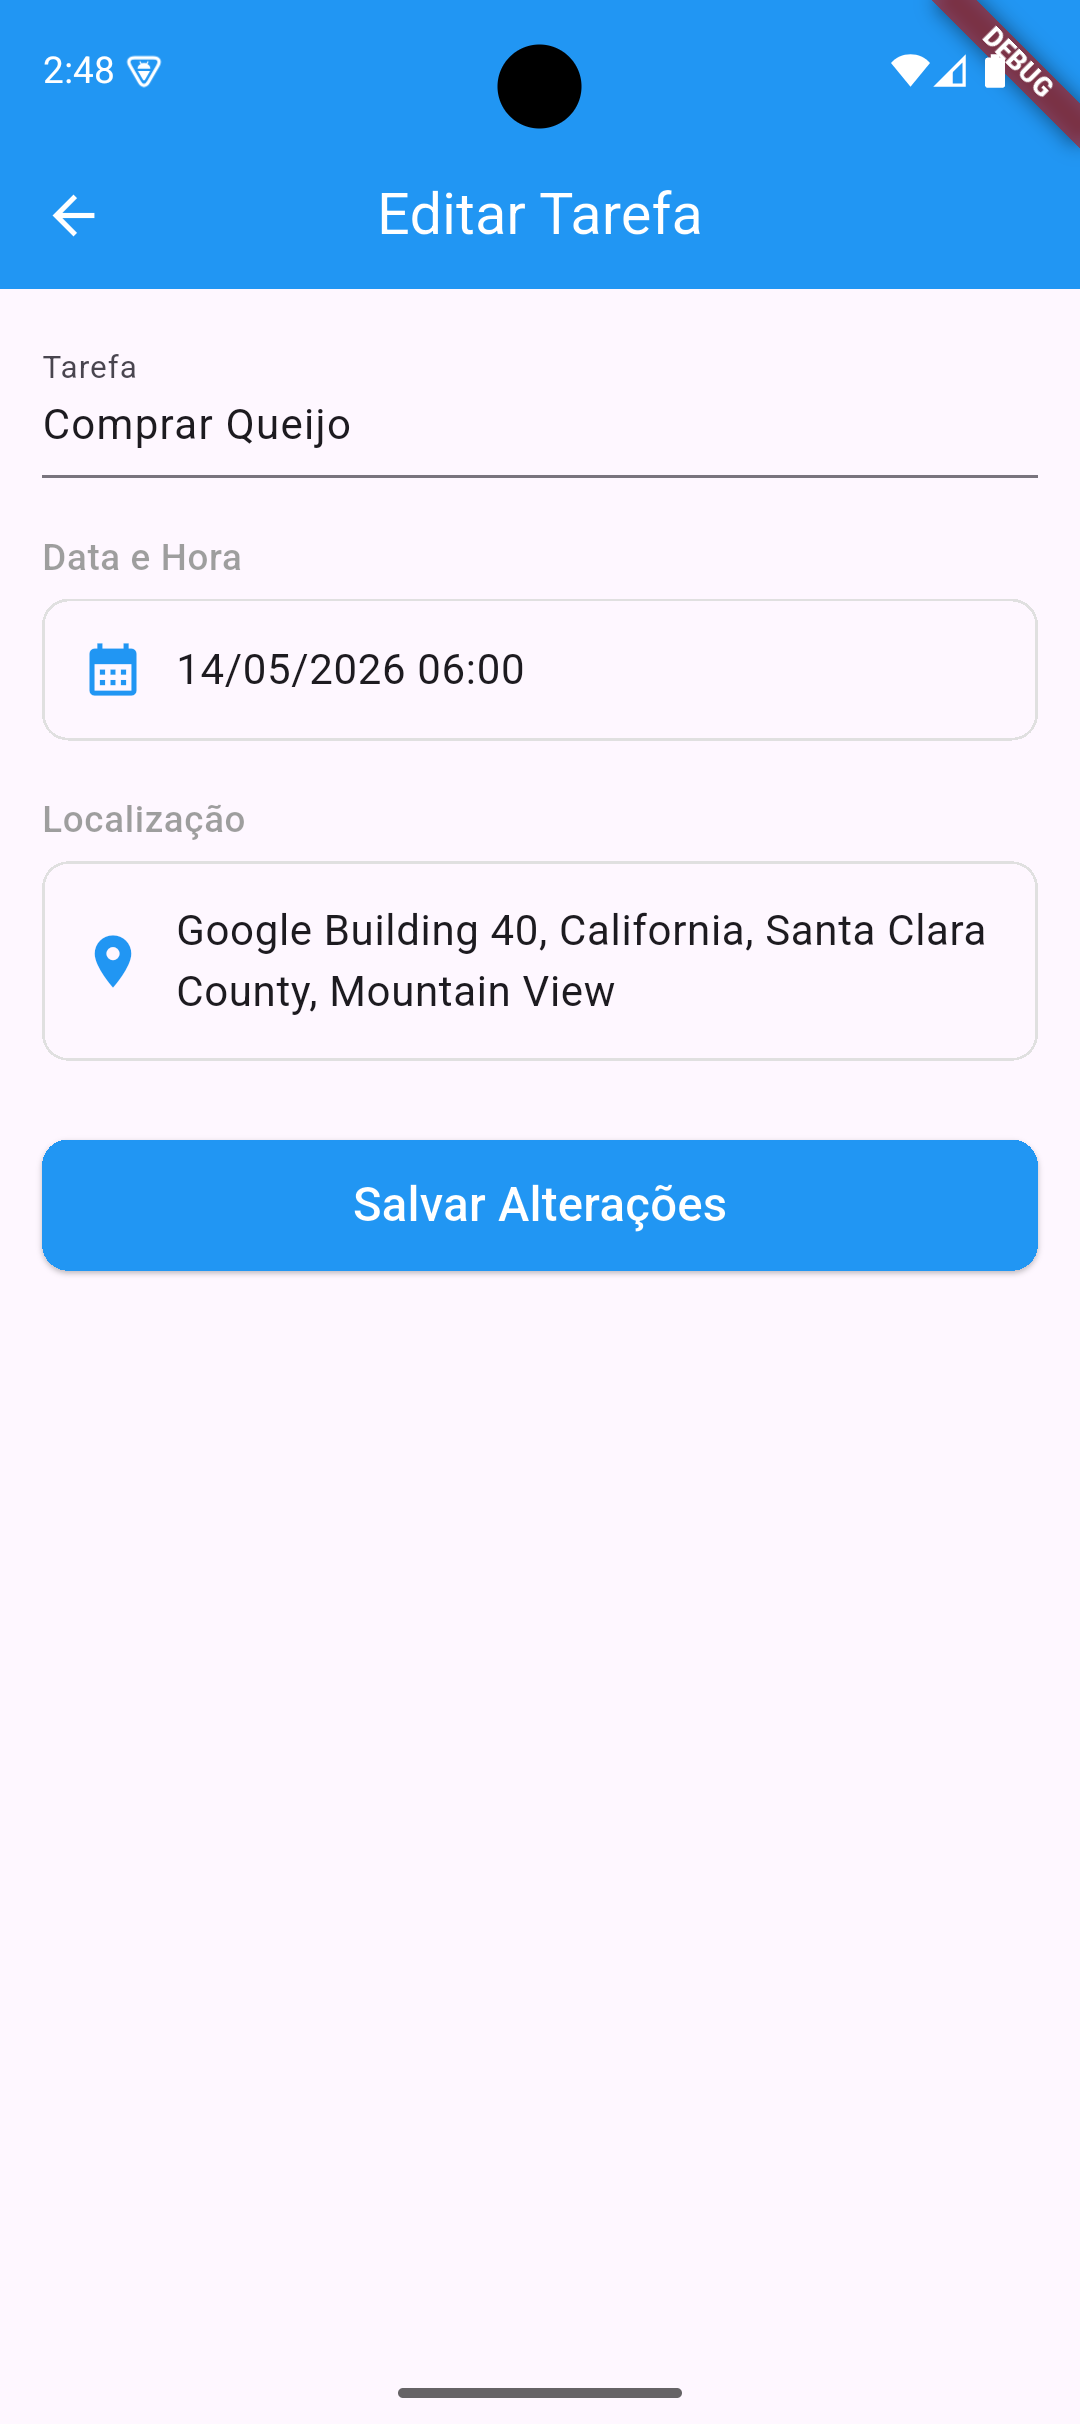
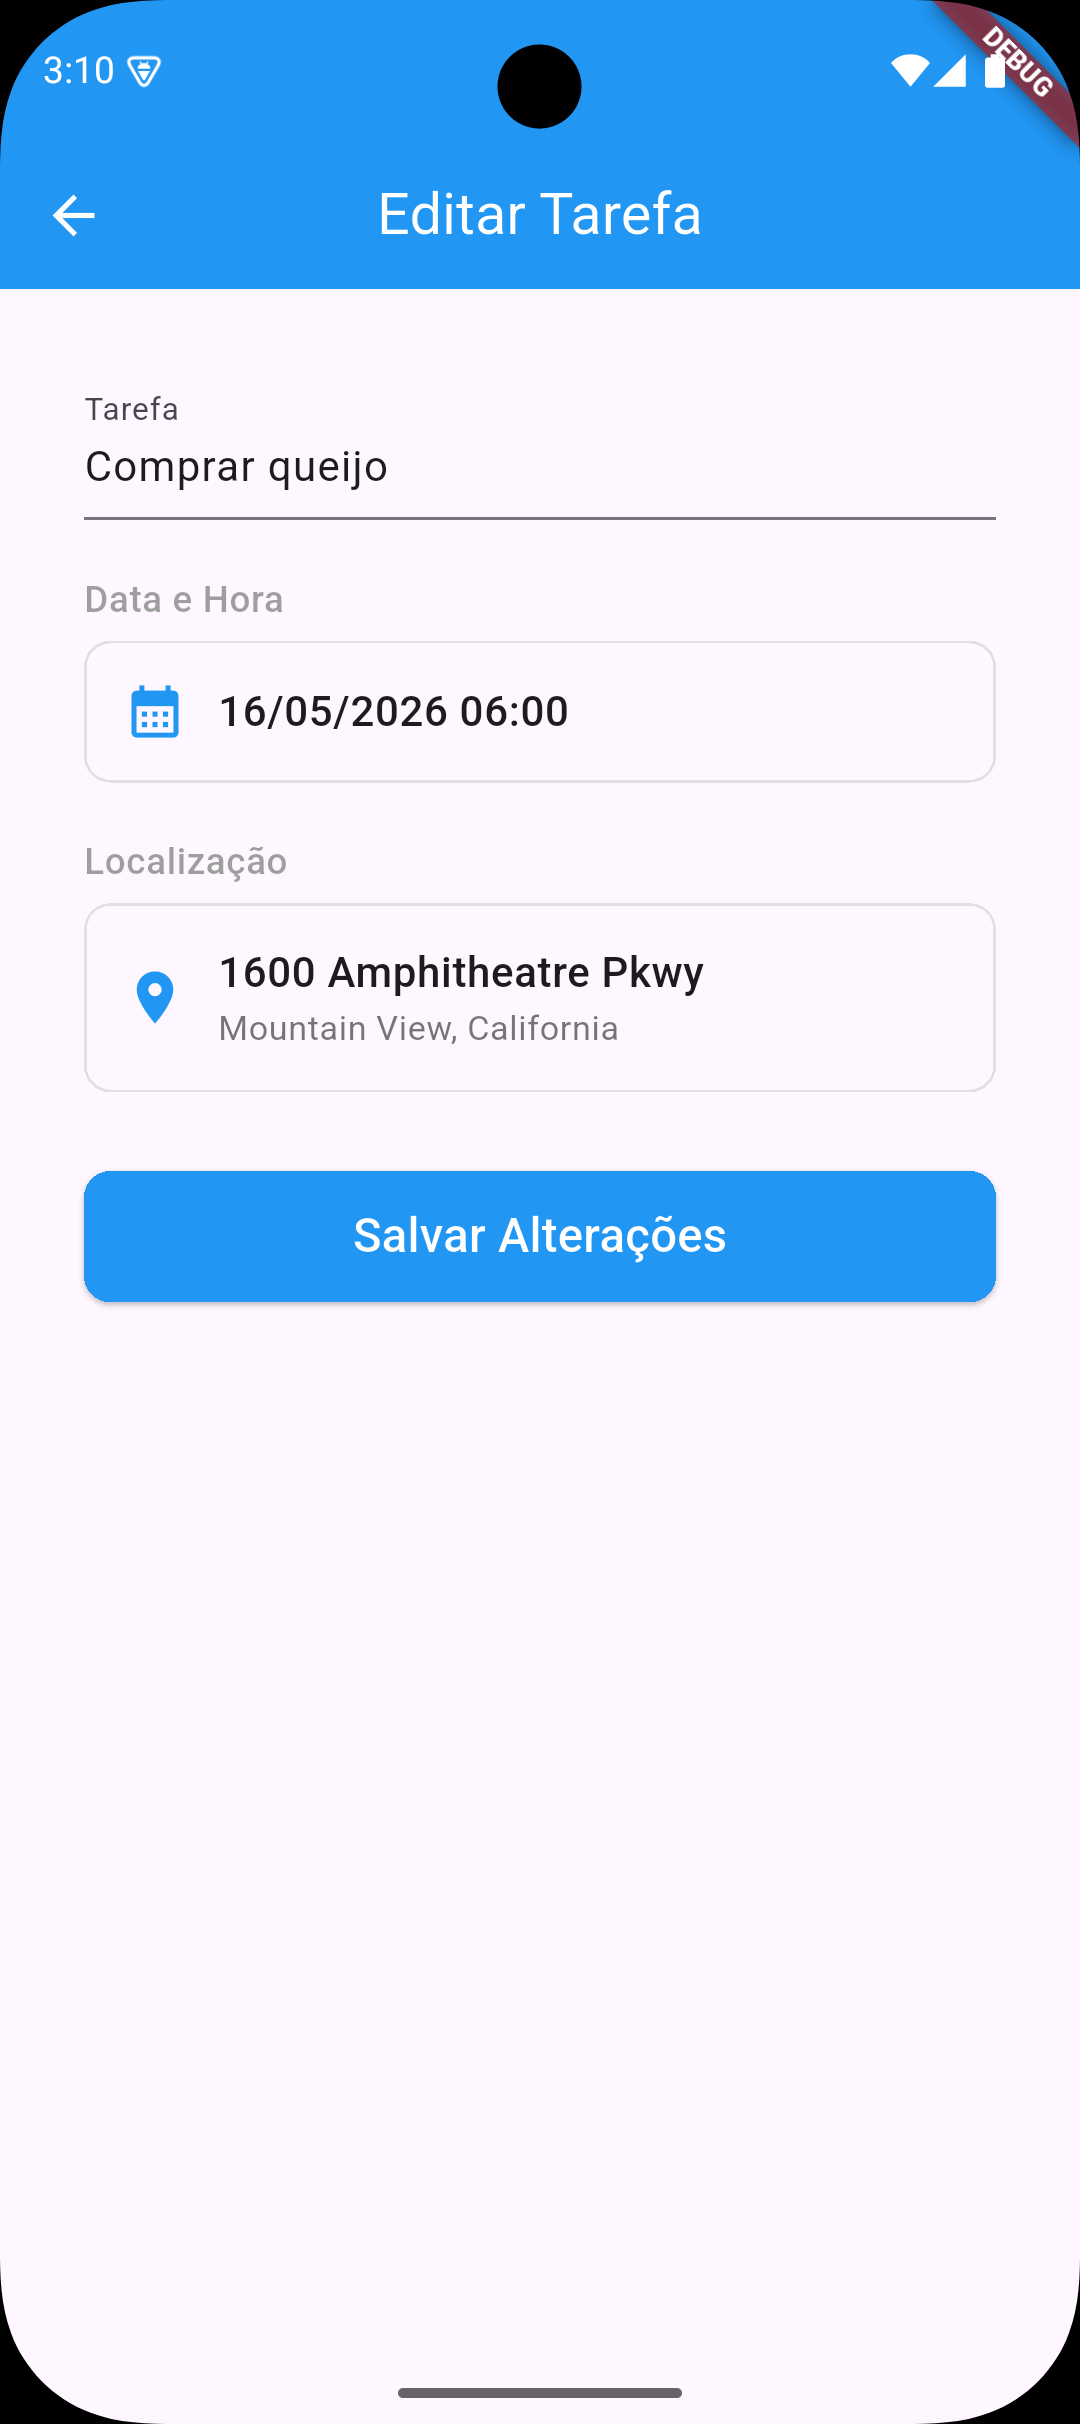
chore(readme): update images and descriptions for task management features

diff --git a/README.md b/README.md
@@ -118,9 +118,9 @@ Siga os passos abaixo para entender a navegação do app. Substitua as imagens d
    - Descrição: Ao pressionar o botão do canto inferior direito, seremos levados a tela de cadastro de uma nova tarefa. Podemos então preencher os campos e pressionar o botão "Salvar". Isso nos levará devolta a tela inicial, agora com a nova tarefa criada sendo listada.
 
    <p align="center">
-      <img src="assets/images/Tela_Cadastro_Tarefas.png" height="550" alt="Tela cadastro tarefas" />
-      <img src="assets/images/Tela_Cadastro_Tarefas_Preenchida.png" height="550" alt="Tela cadastro preenchida" />
-      <img src="assets/images/Tela_Listagem.png" height="550" alt="Tela listagem" />
+      <img src="assets/images/Tela_Cadastro_Tarefa.png" height="550" alt="Tela cadastro tarefas" />&nbsp;&nbsp;&nbsp;&nbsp;
+      <img src="assets/images/Tela_Cadastro_Tarefa_Preenchida.png" height="550" alt="Tela cadastro preenchida" />&nbsp;&nbsp;&nbsp;&nbsp;
+      <img src="assets/images/Tela_Listagem_Tarefa.png" height="550" alt="Tela listagem" />
    </p>
 
    ***
@@ -129,41 +129,43 @@ Siga os passos abaixo para entender a navegação do app. Substitua as imagens d
    - Descrição: Ao pressionar no card da tarefa, na tela de listagem de tarefas, somos levados a tela de detalhamento da tarefa, contendo informações completas da tarefa selecionada, incluindo localização e opções de edição e exclusão.
 
    <p align="center">
-      <img src="assets/images/Tela_Listagem.png" height="550" alt="Tela listagem" />
-      <img src="assets/images/Tela_Detalhes_Tarefa.png" height="550" alt="Tela detalhes tarefa" />
+      <img src="assets/images/Tela_Listagem_Tarefa.png" height="550" alt="Tela listagem" />&nbsp;&nbsp;&nbsp;&nbsp;
+      <img src="assets/images/Tela_Detalhamento_Tarefa.png" height="550" alt="Tela detalhes tarefa" />
    </p>
 
    ***
 
 4. **Edição de tarefa**
-   - Descrição: Ainda na tela de detalhamento da tarefa, pressione o botão "Editar". Seremos levados a tela de edição da tarefa selecionada. Alteramos os campos desejados e pressionamos o botão "Salvar alterações" e então somos levados a tela de listagem de tarefas, agora com a tarefa contendo as informações atualizadas. O ultimo print abaixo foi da tela de detalhamento da tarefa, agora com as informações alteradas para melhor visualização.
+   - Descrição: Ainda na tela de detalhamento da tarefa, pressione o botão "Editar". Seremos levados a tela de edição da tarefa selecionada. Alteramos os campos desejados e pressionamos o botão "Salvar alterações" e então somos levados a tela de listagem de tarefas, agora com a tarefa contendo as informações atualizadas.
 
    <p align="center">
-      <img src="assets/images/Tela_Detalhes_Tarefa.png" height="550" alt="Tela detalhes tarefa" />
-      <img src="assets/images/Tela_Editar_Tarefa.png" height="550" alt="Tela editar tarefa" />
-      <img src="assets/images/Tela_Editar_Tarefa_Modificada.png" height="550" alt="Tela editar tarefa modificada" />
-      <img src="assets/images/Tarefa_Alterada.png" height="550" alt="Tarefa alterada" />
+      <img src="assets/images/Tela_Detalhamento_Tarefa.png" height="550" alt="Tela detalhes tarefa" />&nbsp;&nbsp;&nbsp;&nbsp;
+      <img src="assets/images/Tela_Editar_Tarefa.png" height="550" alt="Tela editar tarefa" />&nbsp;&nbsp;&nbsp;&nbsp;
+      <img src="assets/images/Tela_Editar_Tarefa_Alterada.png" height="550" alt="Tela editar tarefa modificada" />
+      <img src="assets/images/Tela_Listagem_Tarefa_Alterada.png" height="550" alt="Tarefa alterada" />
    </p>
 
    ***
 
 5. **Listagem e pesquisa de tarefas**
-   - Descrição: Após criarmos mais algumas tarefas, a tela de listagem de tarefas ira ser preenchida com as novas adições. Se olharmos para o topo da tela de listagem, veremos um campo onde nos e permitido fazer a pesquisa de tarefas pelo título delas.
+   - Descrição: Após criarmos mais algumas tarefas, a tela de listagem de tarefas ira ser preenchida com as novas adições. Se olharmos para o topo da tela de listagem, veremos um campo onde nos e permitido fazer a pesquisa de tarefas pelo título delas. Vamos pesquisar a tarefa "Fazer trabalho de flutter e dart", apenas passando algum conteudo existente no título da tarefa.
 
    <p align="center">
-      <img src="assets/images/Tela_Listagem_Maior.png" height="550" alt="Tela listagem maior" />
-      <img src="assets/images/Pesquisa_Tarefa.png" height="550" alt="Pesquisa de tarefa" />
+      <img src="assets/images/Tela_Listagem_Tarefas_Preenchida.png" height="550" alt="Tela listagem maior" />&nbsp;&nbsp;&nbsp;&nbsp;
+      <img src="assets/images/Tela_Listagem_Tarefas_Pesquisa.png" height="550" alt="Pesquisa de tarefa" />
    </p>
 
    ***
 
 6. **Excluir tarefa**
-   - Descrição: Para excluir uma tarefa, basta pressionar o icone de lixeira presente no card da tarefa que deseja excluir e confirmar a exclusão. Esta funcionalidade tambem esta presente na tela de detalhamento de tarefa, onde o botão "Excluir" possui o mesmo efeito. Aqui, foi excluida a tarefa "Fazer Trabalho".
+   - Descrição: Para excluir uma tarefa, basta pressionar o icone de lixeira presente no card da tarefa que deseja excluir e confirmar a exclusão. Esta funcionalidade tambem esta presente na tela de detalhamento de tarefa, onde o botão "Excluir" possui o mesmo efeito. Aqui, foi excluida a tarefa "Fazer trabalho de flutter e dart" através da tela de listagem e a tarefa "Planejar viagem", através da tela de detalhamento da tarefa.
 
    <p align="center">
-      <img src="assets/images/Tela_Listagem_Maior.png" height="550" alt="Tela listagem maior" />
-      <img src="assets/images/Confirma_Exclusao_Tarefa.png" height="550" alt="Confirma exclusão tarefa" />
-      <img src="assets/images/Tarefa_Removida.png" height="550" alt="Tarefa removida" />
+      <img src="assets/images/Tela_Listagem_Tarefas_Preenchida.png" height="550" alt="Tela listagem maior" />&nbsp;&nbsp;&nbsp;&nbsp;
+      <img src="assets/images/Tela_Confirma_Exlusao.png" height="550" alt="Confirma exclusão tarefa" />&nbsp;&nbsp;&nbsp;&nbsp;
+      <img src="assets/images/Tela_Listagem_Tarefas_Excluida.png" height="550" alt="Tarefa removida" />
+      <img src="assets/images/Tela_Detalhamento_Tarefa_Exclusao.png" height="550" alt="Tarefa detalhada removida" />&nbsp;&nbsp;&nbsp;&nbsp;
+      <img src="assets/images/Tela_Listagem_Tarefas_Exclusao_v2.png" height="550" alt="Tarefa removida" />
    </p>
 
    ***